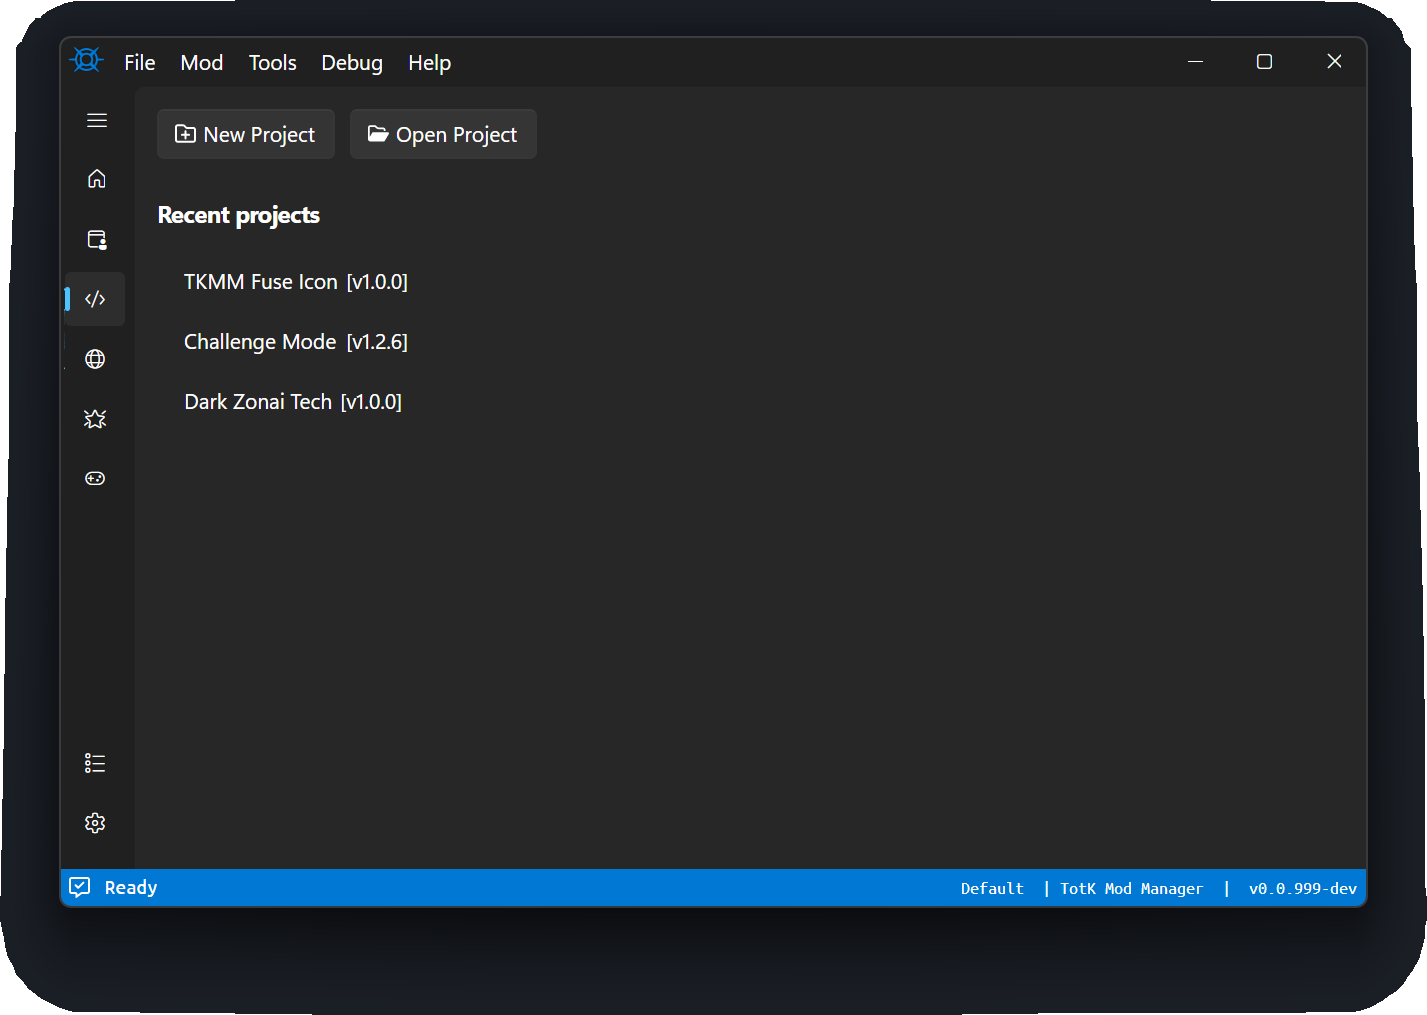
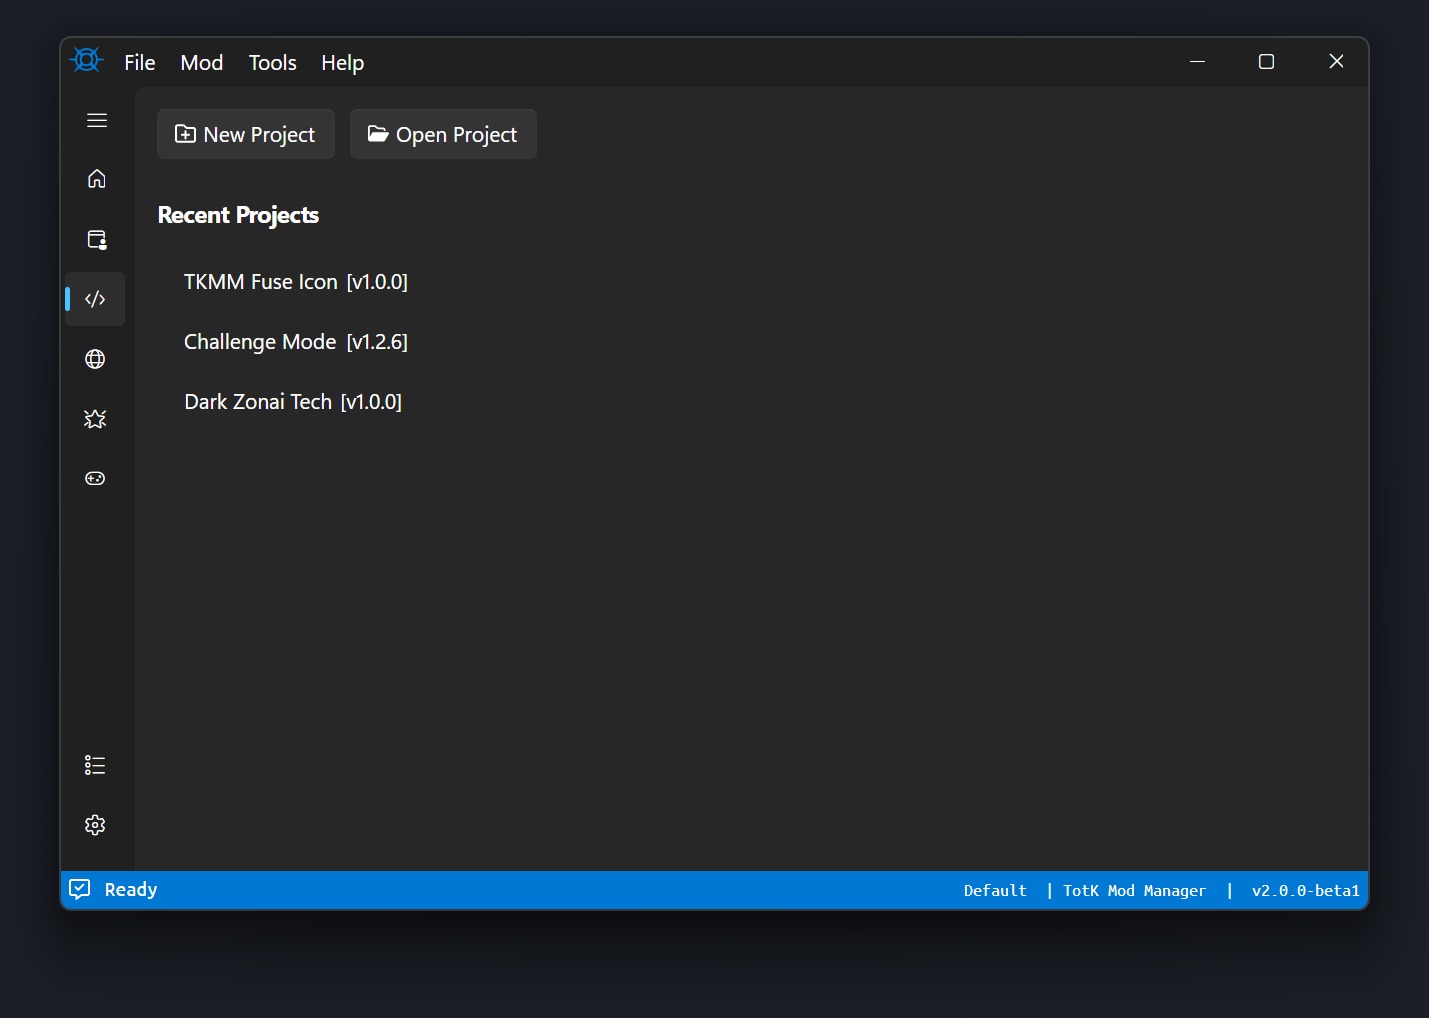
Update Packaging guide to 2.0.0 beta1

diff --git a/wwwroot/docs/creating-mods/index.md b/wwwroot/docs/creating-mods/index.md
@@ -22,54 +22,63 @@ og:author:username: richardschneider"
 
 # Packaging
 
-This page will walk you through packaging a mod with TKMM, including the creation of option groups.
+This page will walk you through all features in the Projects section of TKMM. To begin, select `New Project`, and navigate to the folder containing the `romfs`, `exefs`, and/or `cheats` folder. If you already have a saved project, you can navigate to the `.tkproj` (TKMM Project) file using the `Open Project` button, or choose it from the `Recent Projects` list by double-clicking on the name of the project.
+
+
+<p>
+    <img width="650" src="..\images\Create_ProjectList.png">
+</p>
 
 ## Basic Fields
 
+When creating a new project, you should see the following screen:
+
 <p>
-    <img width="650" src="./images/PackageMods_01_01.png">
+    <img width="650" src="..\images\Create_Empty.png">
 </p>
-
-### Folder
-
-The `Folder` field is for the path to the root folder of the mod you want to package. This folder should contain the `romfs` and/or `exefs` folder.
 
 ### Name
 
-The `Name` field is for the name of the mod. It will be displayed in the Mod List on TKMM's home page to represent the mod.
-
-### Description
-
-The `Description` field is on the far right side of the Packaging tab. Fill it in with a description of your mod. You can use markdown formatting, a guide for which can be found [here](https://www.markdownguide.org/basic-syntax/). To preview the description, click the `Preview` header. Click on the `Edit` header to get back to the description editor.
+The `Name` field is for the title of the mod. It will be displayed in the Mod List on TKMM's home page to represent the mod.
 
 ### Version
 
-The `Version` field is for the version. It's recommended to use `1.0.0` for the first release of a mod, and using a higher numbered version for updates. `1.0.0` is filled in by default.
+The `Version` field is for the version of the mod. It's recommended to use `1.0.0` for the first release of a mod, and using a higher numbered version for updates. You may use any`1.0.0` is filled in by default.
+
+
 
 ### Authors
 
-The `Author` field is for specifying the mod's primary author. This field will be automatically filled if you configured the `Default Author` field in the `Packaging` tab of TKMM's Settings. If more than one author contributed to the mod, click on the `...` on the right side of the `Author` field. Press the `+` button and two fields will appear. The field on the left is for specofying the name of an additional contributor. The field on the right is for listing their contributions to the mod. If they made multiple contributions, each contribution can be separated by a semicolon. For example: `Models; Textures; Sounds`. Press `OK` to confirm your changes and exit the additional contributors window.
+The `Author` field is for specifying the mod's primary author. This field will be automatically filled if you configured the `Default Author` field in the `Packaging` tab of TKMM's Settings. If more than one author contributed to the mod, click on the `…` on the right side of the `Author` field. Press the `+` button and two fields will appear. The field on the left is for specifying the name of an additional contributor. The field on the right is for listing their contributions to the mod. If they made multiple contributions, each contribution can be separated by a semicolon. For example: `Models; Textures; Sounds`. Press `Close` to confirm your changes and exit the additional contributors window.
 
 <p>
-    <img width="650" src="./images/PackageMods_01_02.png">
+    <img width="650" src="../images/Create_Authors.png">
 </p>
 
 ### Thumbnail
 
 The `Thumbnail` field is for the path to the mod's thumbnail image. Acceptable image formats include `bmp`, `gif`, `jpg`, `jpeg`, `png`, and `tif`. Note that only the first frame of a `gif` will be used as a thumbnail. To preview your thumbnail, click on the `Thumbnail` header on the far right of the Packaging tab.
 
-### Output Path
+### Description
 
-The `Output Path` field is where the packaged `TKCL` will be saved to.
+The `Description` field is on the far right side of the Packaging tab. Fill it in with a description of your mod. You can use markdown formatting, a guide for which can be found [here](https://www.markdownguide.org/basic-syntax/). To preview the description, click the `Preview` header. Click on the `Edit` header to get back to the description editor.
 
 ### Packaging
 
- When you are satisfied with the packaging settings, click the `Package` button to export the `TKCL` to the Output Path, or click `Package and Install` to both export the `TKCL` and automatically install it to TKMM.
-
+ When you are satisfied with the packaging settings, click the `Package` button to export the `TKCL` to a path of your choosing, or click `Install` to install the mod for testing purposes. 
+ 
+ >[!TIP]
+ >Whether you're Packaging or Installing a mod, click `Save` to save the `.tkproj` file to the root directory of the mod. 
+ > Through the use of a `.tkproj` file, all data from the packaging screen is saved.
+ > This enables you create updates for your mod that use the same internal ID, so when a user installs a newer version of your mod, it will automatically replace the original version they had installed.
 
  ## Mod Options
 
-When packaging a TKCL, mod creators can add options to their mod. These options are different configurations of files that the mod user can customize to better tailor their experience. There is no minimum or maximum limit to the amount of Option Groups a TKCL can include. When adding option groups, a description and thumbnail can be added to each option to explain to the end-user what each option group is used to configure. 
+When packaging a TKCL, mod creators can add user-configurable options to their mod. These options are different configurations of files that the mod user can customize to better tailor their experience. There is no minimum or maximum limit to the amount of Option Groups a TKCL can include. When adding option groups, a description and thumbnail can be added to each option to explain to the end-user what each option group is used to configure. The thumbnail and description of an option group is visible to the user by hovering over the title of the option group.
+
+<p>
+    <img width="650" src="..\images\Create_OptionGroups.png">
+</p>
 
 As an alternative to manually importing option groups in TKMM, you can have option groups automatically detected when you select the `Mod Folder` by laying out the option group in the mod's folder structure. Here is an example of the folder structure:
 
@@ -105,7 +114,7 @@ As an alternative to manually importing option groups in TKMM, you can have opti
             └── romfs/
 ```
 
-There are four types of option groups. Here is a description of each of them:
+There are four types of option groups:
 
 **Single**  groups allow the user to pick 1 option from the group.
 
@@ -114,3 +123,6 @@ There are four types of option groups. Here is a description of each of them:
 **Multi** groups allows the user to pick as many or as few of the options as they'd like.
 
 **MultiRequired** groups require the user to pick one or more of the options in the group.
+
+>[!NOTE]
+> You can configure the relative priority of option groups compared to one another, with 0 being the lowest priority. If you're creating a `Multi` or `MultiRequired` Option Group, you can configure the relative priority of options within each of those groups.
